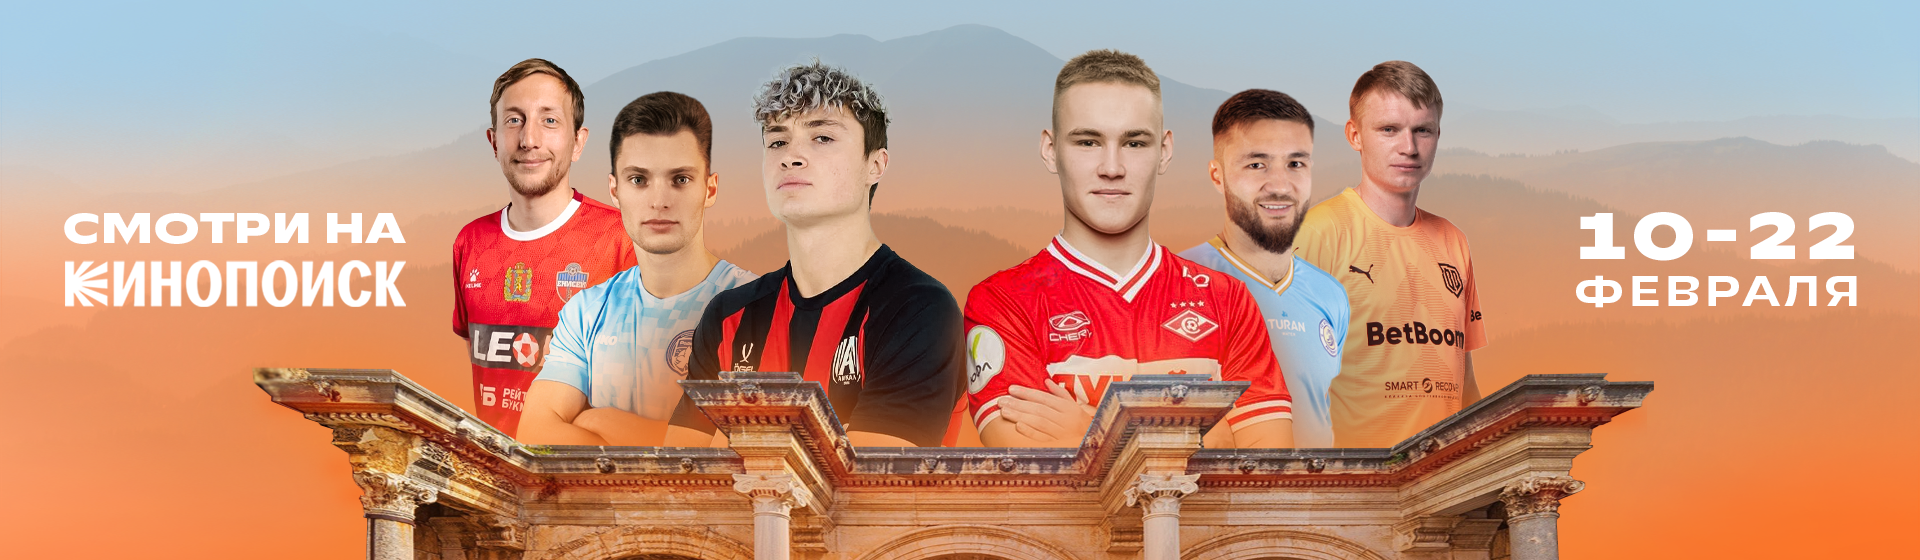
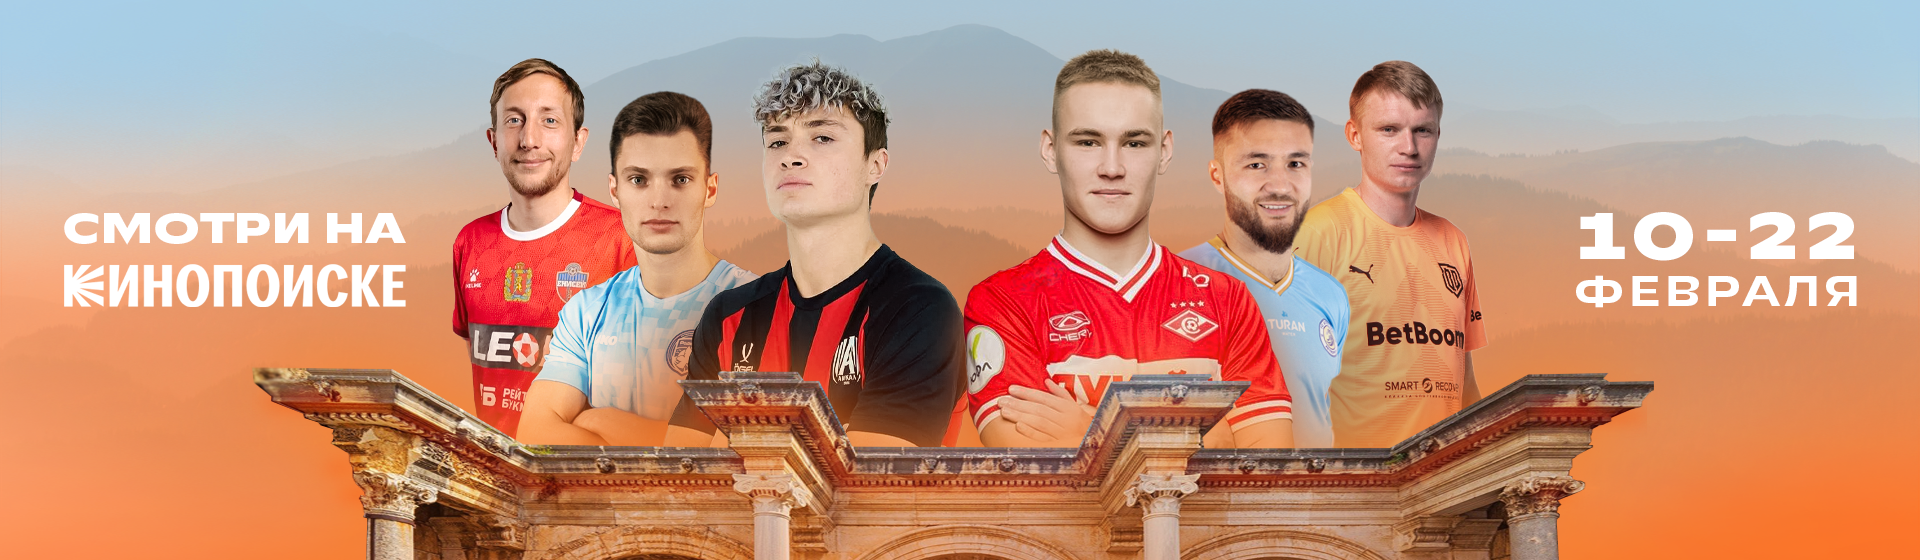
Меняет баннер в первой секции и убирает хэш из адреса

Changed region(s): [[0.0312, 0.4554, 0.2188, 0.5464]]

diff --git a/src/routes/router.js b/src/routes/router.js
@@ -1,9 +1,9 @@
 import HomePage from "@/pages/HomePage.vue";
-import {createRouter, createWebHashHistory} from "vue-router";
+import {createRouter, createWebHistory} from "vue-router";
 
 const router = createRouter({
 
-	history: createWebHashHistory(),
+	history: createWebHistory(),
 	routes: [
 		{ path: '/', component: HomePage },
 	],
